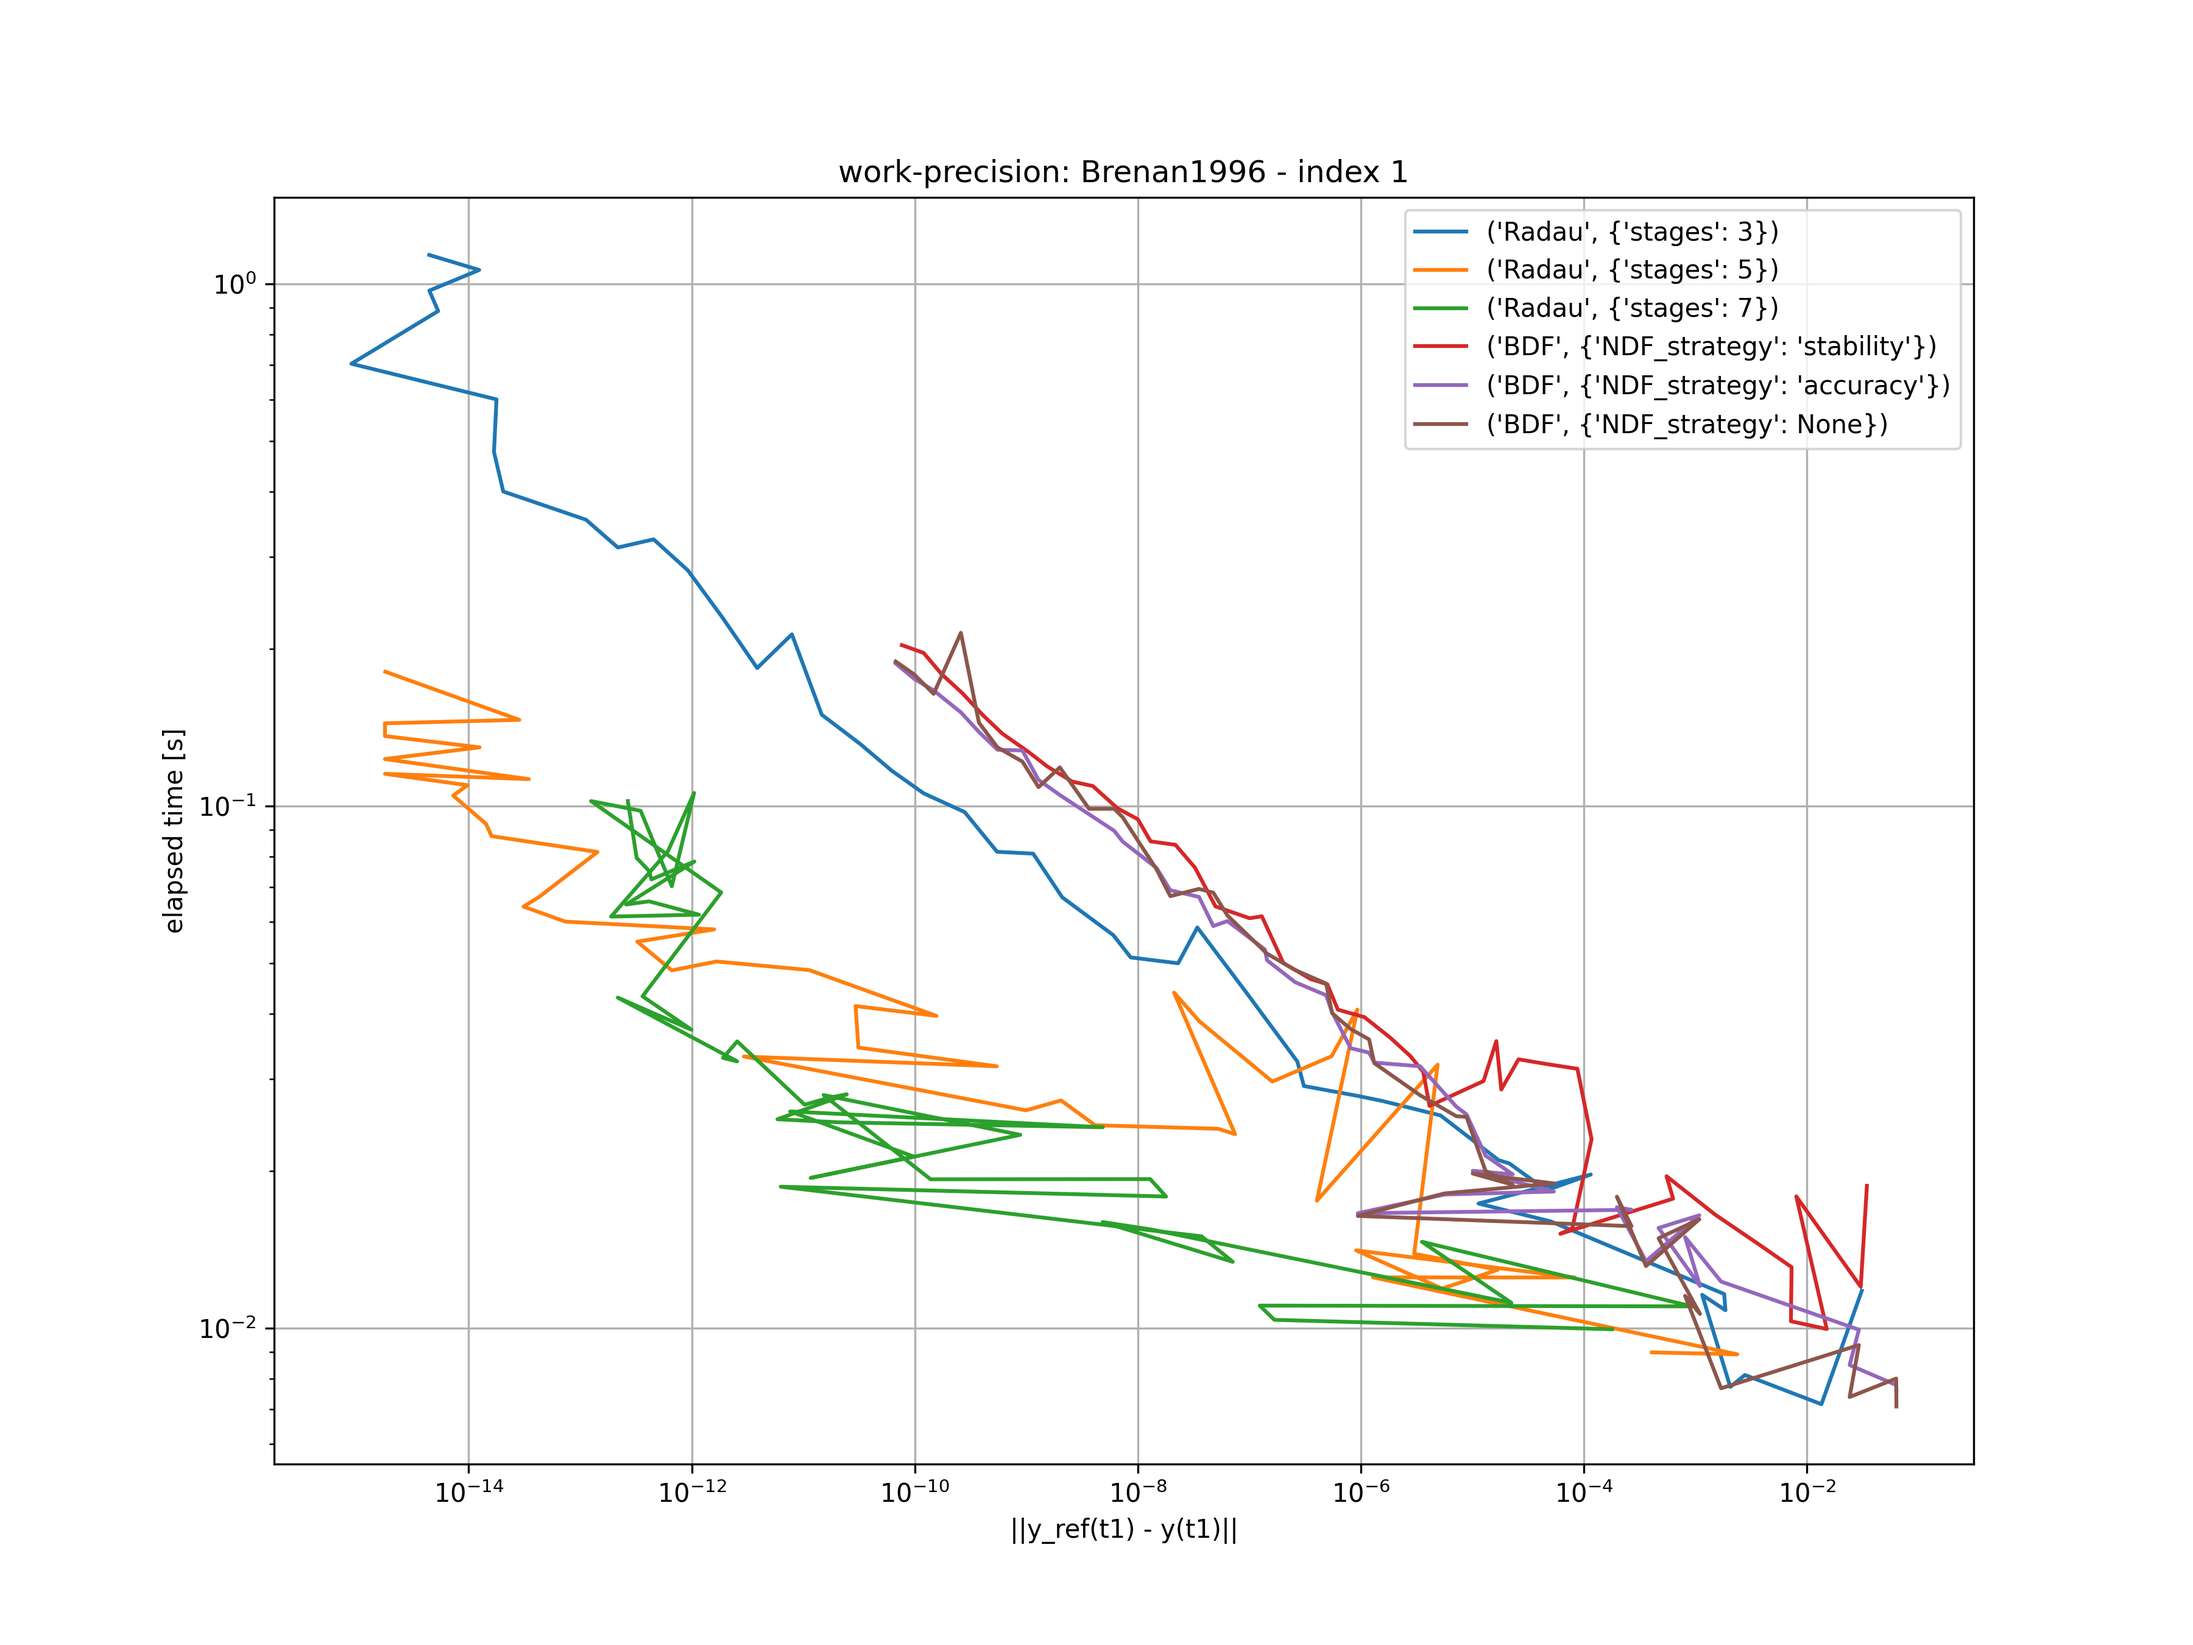
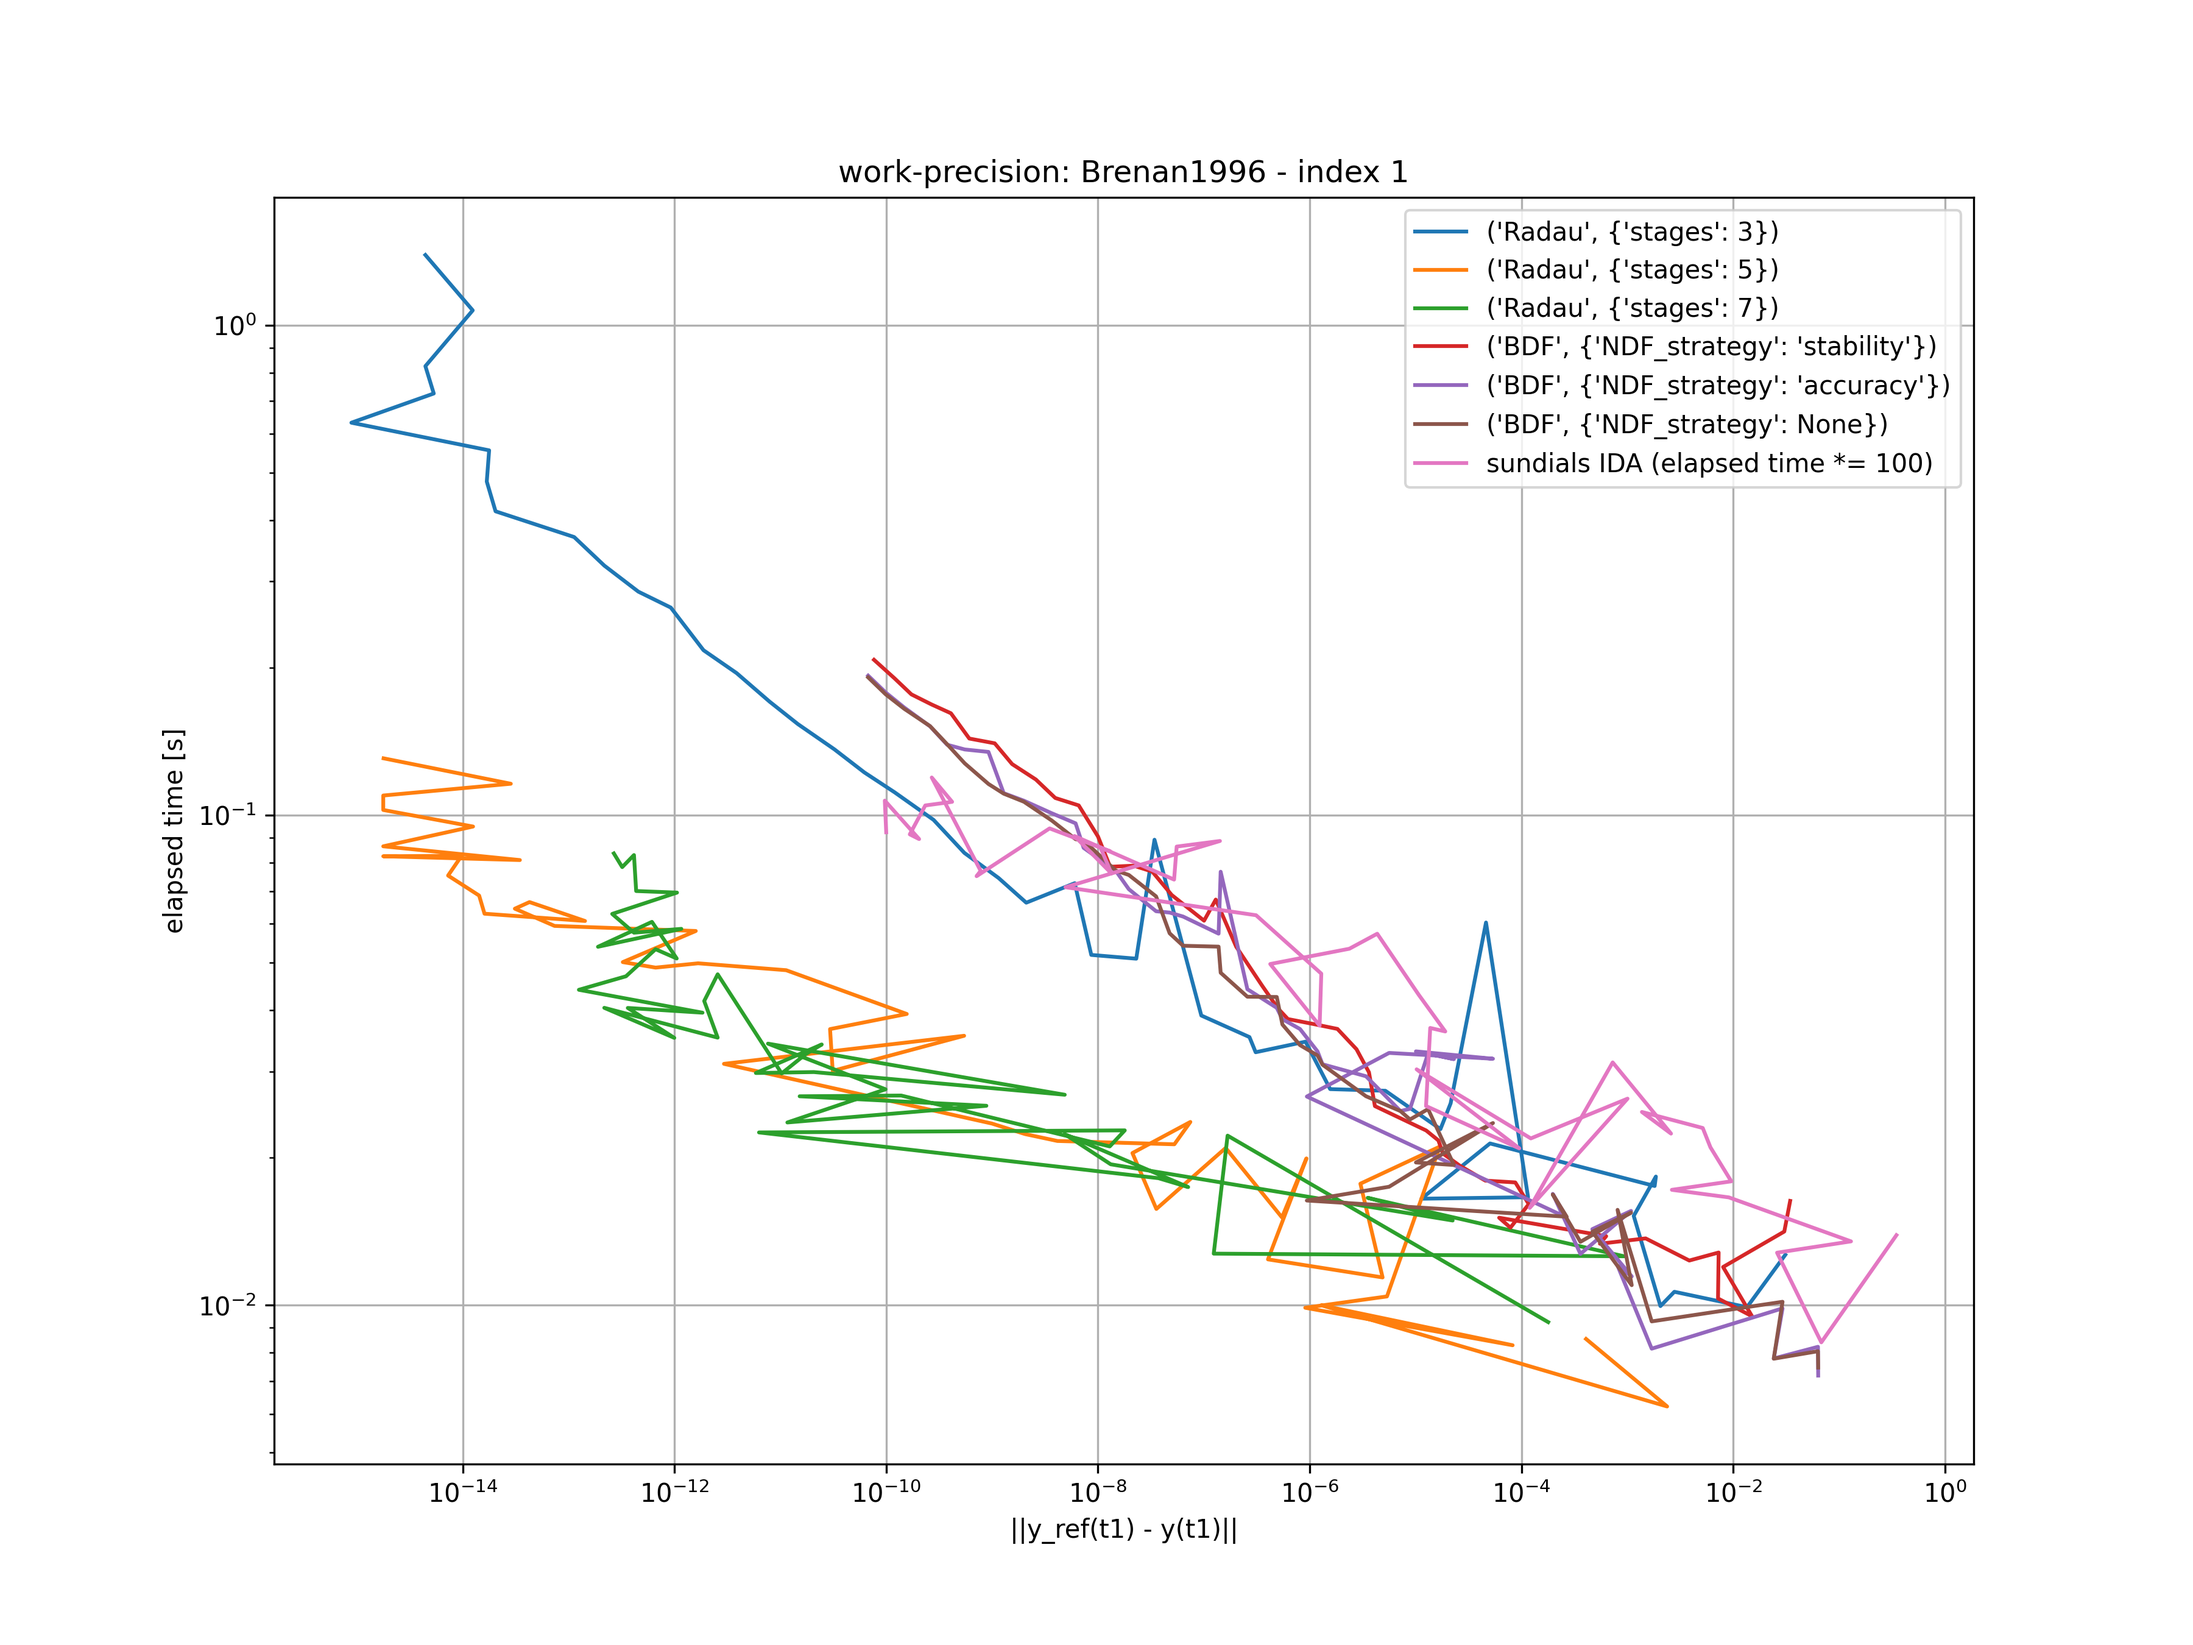
Added sundials IDA work-precision for Brenan example.

diff --git a/benchmark/brenan.c b/benchmark/brenan.c
@@ -1,0 +1,247 @@
+#include <time.h>
+#include <ida/ida.h> /* prototypes for IDA fcts., consts.    */
+#include <math.h>
+#include <nvector/nvector_serial.h> /* access to serial N_Vector            */
+#include <stdio.h>
+#include <sundials/sundials_math.h> /* defs. of SUNRabs, SUNRexp, etc.      */
+#include <sundials/sundials_types.h> /* defs. of sunrealtype, sunindextype      */
+#include <sunlinsol/sunlinsol_dense.h> /* access to dense SUNLinearSolver      */
+#include <sunmatrix/sunmatrix_dense.h> /* access to dense SUNMatrix            */
+#include <sunnonlinsol/sunnonlinsol_newton.h> /* access to Newton SUNNonlinearSolver  */
+
+#if defined(SUNDIALS_EXTENDED_PRECISION)
+#define GSYM "Lg"
+#define ESYM "Le"
+#define FSYM "Lf"
+#else
+#define GSYM "g"
+#define ESYM "e"
+#define FSYM "f"
+#endif
+
+/* Problem Constants */
+#define NEQ  2
+
+/* Prototypes of functions called by IDA */
+int res(sunrealtype tres, N_Vector yy, N_Vector yp, N_Vector resval,
+        void* user_data);
+
+/* Prototypes of private functions */
+static int check_retval(void* returnvalue, const char* funcname, int opt);
+
+/*
+ *--------------------------------------------------------------------
+ * Main Program
+ *--------------------------------------------------------------------
+ */
+
+int main(void)
+{
+  void* mem;
+  N_Vector yy, yp, avtol;
+  sunrealtype rtol, atol, *yval, *ypval, *atval;
+  sunrealtype t0, tout1, tout, tret;
+  int iout, retval, retvalr;
+  SUNMatrix A;
+  SUNLinearSolver LS;
+  SUNNonlinearSolver NLS;
+  SUNContext ctx;
+  FILE* FID;
+
+  mem = NULL;
+  yy = yp = avtol = NULL;
+  yval = ypval = atval = NULL;
+  A                    = NULL;
+  LS                   = NULL;
+  NLS                  = NULL;
+
+  double m_max = 45.0;
+  for (double m=0.0; m<m_max; m++) {
+
+    /* Create SUNDIALS context */
+    retval = SUNContext_Create(SUN_COMM_NULL, &ctx);
+    if (check_retval(&retval, "SUNContext_Create", 1)) { return (1); }
+
+    /* Allocate N-vectors. */
+    yy = N_VNew_Serial(NEQ, ctx);
+    if (check_retval((void*)yy, "N_VNew_Serial", 0)) { return (1); }
+    yp = N_VClone(yy);
+    if (check_retval((void*)yp, "N_VNew_Serial", 0)) { return (1); }
+    avtol = N_VClone(yy);
+    if (check_retval((void*)avtol, "N_VNew_Serial", 0)) { return (1); }
+
+    /* Create and initialize  y, y', and absolute tolerance vectors. */
+    yval    = N_VGetArrayPointer(yy);
+    yval[0] = SUN_RCONST(1.0);
+    yval[1] = SUN_RCONST(0.0);
+
+    ypval    = N_VGetArrayPointer(yp);
+    ypval[0] = SUN_RCONST(-1.0);
+    ypval[1] = SUN_RCONST(1.0);
+    
+    /* define tolerances */
+    rtol = pow(10, -(1 + m / 4));
+
+    atval    = N_VGetArrayPointer(avtol);
+    atval[0] = rtol;
+    atval[1] = rtol;
+    atval[2] = rtol;
+
+    int mxsteps = 1e8;
+
+    /* Integration limits */
+    t0    = SUN_RCONST(0.0);
+    tout1 = SUN_RCONST(1.0);
+
+    // PrintHeader(rtol, avtol, yy);
+
+    /* Call IDACreate and IDAInit to initialize IDA memory */
+    mem = IDACreate(ctx);
+    if (check_retval((void*)mem, "IDACreate", 0)) { return (1); }
+    retval = IDAInit(mem, res, t0, yy, yp);
+    if (check_retval(&retval, "IDAInit", 1)) { return (1); }
+    /* Call IDASVtolerances to set tolerances */
+    retval = IDASVtolerances(mem, rtol, avtol);
+    if (check_retval(&retval, "IDASVtolerances", 1)) { return (1); }
+
+    /* Create dense SUNMatrix for use in linear solves */
+    A = SUNDenseMatrix(NEQ, NEQ, ctx);
+    if (check_retval((void*)A, "SUNDenseMatrix", 0)) { return (1); }
+
+    /* Create dense SUNLinearSolver object */
+    LS = SUNLinSol_Dense(yy, A, ctx);
+    if (check_retval((void*)LS, "SUNLinSol_Dense", 0)) { return (1); }
+
+    /* Attach the matrix and linear solver */
+    retval = IDASetLinearSolver(mem, LS, A);
+    if (check_retval(&retval, "IDASetLinearSolver", 1)) { return (1); }
+
+    // /* Set the user-supplied Jacobian routine */
+    // retval = IDASetJacFn(mem, jac);
+    // if (check_retval(&retval, "IDASetJacFn", 1)) { return (1); }
+
+    /* Create Newton SUNNonlinearSolver object. IDA uses a
+    * Newton SUNNonlinearSolver by default, so it is unecessary
+    * to create it and attach it. It is done in this example code
+    * solely for demonstration purposes. */
+    NLS = SUNNonlinSol_Newton(yy, ctx);
+    if (check_retval((void*)NLS, "SUNNonlinSol_Newton", 0)) { return (1); }
+
+    /* Attach the nonlinear solver */
+    retval = IDASetNonlinearSolver(mem, NLS);
+    if (check_retval(&retval, "IDASetNonlinearSolver", 1)) { return (1); }
+
+    /* Maximum number of steps */
+    IDASetMaxNumSteps(mem, mxsteps);
+
+    /* In loop, call IDASolve, print results, and test for error.
+      Break out of loop when NOUT preset output times have been reached. */
+
+    iout = 0;
+    tout = 10.0;
+
+    clock_t start = clock();
+    retval = IDASolve(mem, tout, &tret, yy, yp, IDA_NORMAL);
+    clock_t end = clock();
+    double elapsed_time = (double)(end - start) / CLOCKS_PER_SEC;
+
+    /* Print elapsed time and error to a file in CSV format */
+    yval  = N_VGetArrayPointer(yy);
+
+    double diff_y1 = yval[0] - (exp(-tout) + tout * sin(tout));
+    double diff_y2 = yval[1] - sin(tout);
+    double error = sqrt(diff_y1 * diff_y1 + diff_y2 * diff_y2);
+
+    FID = fopen("idaBrenan_dns_stats.csv", "a");
+    fprintf(FID, "%17.17e, %17.17e\n", error, elapsed_time);
+    fclose(FID);
+
+    /* Print rtol, elapsed time and error to a file in CSV format */
+    printf("rtol: %e, elapsed time: %e, error: %e\n", rtol, elapsed_time, error);
+
+  }
+
+  /* Free memory */
+  IDAFree(&mem);
+  SUNNonlinSolFree(NLS);
+  SUNLinSolFree(LS);
+  SUNMatDestroy(A);
+  N_VDestroy(avtol);
+  N_VDestroy(yy);
+  N_VDestroy(yp);
+  SUNContext_Free(&ctx);
+
+  return (retval);
+}
+
+/*
+ *--------------------------------------------------------------------
+ * Functions called by IDA
+ *--------------------------------------------------------------------
+ */
+
+/*
+ * Define the system residual function.
+ */
+int res(sunrealtype tres, N_Vector yy, N_Vector yp, N_Vector rr,
+           void* user_data)
+{
+  sunrealtype *yval, *ypval, *rval;
+
+  yval  = N_VGetArrayPointer(yy);
+  ypval = N_VGetArrayPointer(yp);
+  rval  = N_VGetArrayPointer(rr);
+
+  rval[0] = ypval[0] - tres * ypval[1] + yval[0] - (1 + tres) * yval[1];
+  rval[1] = yval[1] - sin(tres);
+
+  return (0);
+}
+
+/*
+ *--------------------------------------------------------------------
+ * Private functions
+ *--------------------------------------------------------------------
+ */
+
+/*
+ * Check function return value...
+ *   opt == 0 means SUNDIALS function allocates memory so check if
+ *            returned NULL pointer
+ *   opt == 1 means SUNDIALS function returns an integer value so check if
+ *            retval < 0
+ *   opt == 2 means function allocates memory so check if returned
+ *            NULL pointer
+ */
+
+static int check_retval(void* returnvalue, const char* funcname, int opt)
+{
+  int* retval;
+  /* Check if SUNDIALS function returned NULL pointer - no memory allocated */
+  if (opt == 0 && returnvalue == NULL)
+  {
+    fprintf(stderr, "\nSUNDIALS_ERROR: %s() failed - returned NULL pointer\n\n",
+            funcname);
+    return (1);
+  }
+  else if (opt == 1)
+  {
+    /* Check if retval < 0 */
+    retval = (int*)returnvalue;
+    if (*retval < 0)
+    {
+      fprintf(stderr, "\nSUNDIALS_ERROR: %s() failed with retval = %d\n\n",
+              funcname, *retval);
+      return (1);
+    }
+  }
+  else if (opt == 2 && returnvalue == NULL)
+  {
+    /* Check if function returned NULL pointer - no memory allocated */
+    fprintf(stderr, "\nMEMORY_ERROR: %s() failed - returned NULL pointer\n\n",
+            funcname);
+    return (1);
+  }
+
+  return (0);
+}

diff --git a/benchmark/common.py b/benchmark/common.py
@@ -74,6 +74,11 @@ def benchmark(t0, t1, y0, yp0, F, rtols, atols, h0s, name, y_ref=None):
     for i, ri in enumerate(results):
         ax.plot(ri[:, 0], ri[:, 1], label=solvers[i])
 
+    if name == "Brenan1996 - index 1":
+        result_IDA_Brenan = np.loadtxt("benchmark/Brenan_errors_IDA.csv", delimiter=',')
+        result_IDA_Brenan[:, 1] *= 100 # scale elapsed time by 100
+        ax.plot(*result_IDA_Brenan.T, label="sundials IDA (elapsed time *= 100)")
+
     ax.set_title(f"work-precision: {name}")
     ax.set_xscale("log")
     ax.set_yscale("log")

diff --git a/benchmark/brenan.py b/benchmark/brenan.py
@@ -31,7 +31,7 @@ if __name__ == "__main__":
 
     # time span
     t0 = 0
-    t1 = 1e1
+    t1 = 10
 
     # initial conditions
     y0 = np.array([1, 0], dtype=float)
